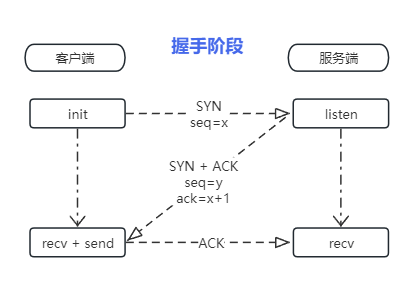
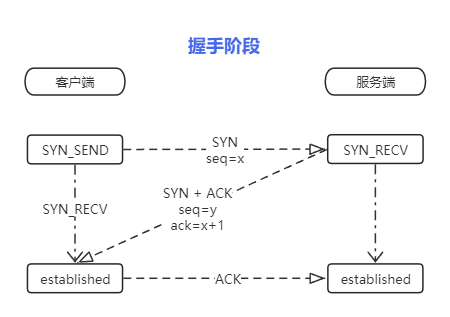
day update

diff --git a/Linux/网络协议/TCP.md b/Linux/网络协议/TCP.md
@@ -3,15 +3,22 @@
 
 ### 报文头
 
-![TCP头部报文段](./asset/tcp-header.png)
-
-- 序号seq：
-  - SYN: seq为初始x,如果已经存在x则为x+1
-  - PSH: seq为发送报文的首字节的序列号
-
-- 确认号ack：仅ACK的flag为1确认号有效。 确认号为期望对端的序号内容。
-
-- 数据偏移(4bit)：tcp头长度，也表示数据开始位置，结果需要乘4，则最小为固定长度|0101|\*4=20，最大表示为|1111|\*4=60.
+![TCP头部报文段](./asset/tcp.png)
+- 源端口：
+  - 长度：16bit
+  - 作用：用来确定是那个进程使用的tcp包，可以根据端口来确定发送进程。
+- 目标端口：目标端口与源端口功能类似，用来表示对端。
+- 序号：
+  - 长度：32bit
+  - 作用：在不通的阶段有不通的作用
+    - SYN握手阶段：初始化一个数字（通常为0）发送给对端，并逐次+=1
+    - PSH传输阶段：本包第一字节在所有数据中的序号。
+- 确认号：
+  - 长度：32bit
+  - 作用：仅ACK的标志位为1的时候确认号才有效。确认号为期望对端的发送的手字节序号。
+- 数据偏移：tcp头长度，也表示数据开始位置
+  - 长度：4bit
+  - 作用：结果需要乘4，则最小为固定长度20（tcp头固定长度），最大表示为|1111|\*4=60(所以tcp头长度不能超过60)
 - Flags：对应位为1则表示当前flag
     - ns （Explicit Congestion Notification）显式拥塞通知
     - cwr (Congestion Window Reduced) 拥塞窗口减少
@@ -19,17 +26,36 @@
     - urg 高优先级数据包
     - ACK 确认序号
     - PSH 传输数据
-    - rst 出现严重差错
-    - SYN 表示连接请求或连接接受报文，syn会告诉对方自己的窗口大小，
+    - RST 出现严重差错，要求断开或重连
+    - SYN 表示连接请求或连接接受报文
     - fin 要求释放连接
 - 窗口：表示从确认号开始，本报文的发送方可以接收的字节数，即接收窗口大小。用于流量控制。
 - 校验和：
 - 紧急指针：
+- 可选项：一组和多组kind类数据
+  - 长度：数据偏移-20固定字节
+  - Kind
+    - 0x00: 结束选项列表
+    - 0x01: 无操作
+    - 0x02: Maximum segment size (最大分段大小)
+    - 0x03: 窗口扩大因子
+    - 0x04: 选择性确认(SACK)
+    - 0x05: 时间戳
 
 ### 握手
 
 ![TCP握手](./asset/tcp-handshake.png)
 
-1. 首先客户端发送握手请求（一个SYN包）到服务器。其中SYN包携带了初始的seq序号（通常为0）。和窗口（接收缓冲区）大小。
+1. 首先客户端发送握手请求（一个SYN包）到服务器。
+2. 服务器收到SYN包后会创建缓冲并将客户端发送SYN和ACK标志位的包表示同意连接。
+3. 客户端则再次回复ACK包通知服务器，至此tcp握手完成。
 
-2. 服务器收到SYN包后会创建缓冲并将客户端发送SYN和ACK
+Q:
+1. 如果客户端发送SYN 服务器除了应答还会怎么处理呢？
+   - 不应答 会触发连接超时 开启防火墙通常就是不应答。
+   - 拒绝 直接回复RST包，直接进行拒绝 端口为监听。
+2. 如果客户端收到服务器的同意请求 如果不回复会怎么样？
+   - 这样会造成资源浪费，服务器会在回复同意后创建接收缓存。批量操作会造成 SYN泛洪攻击。
+
+### 传输阶段
+
